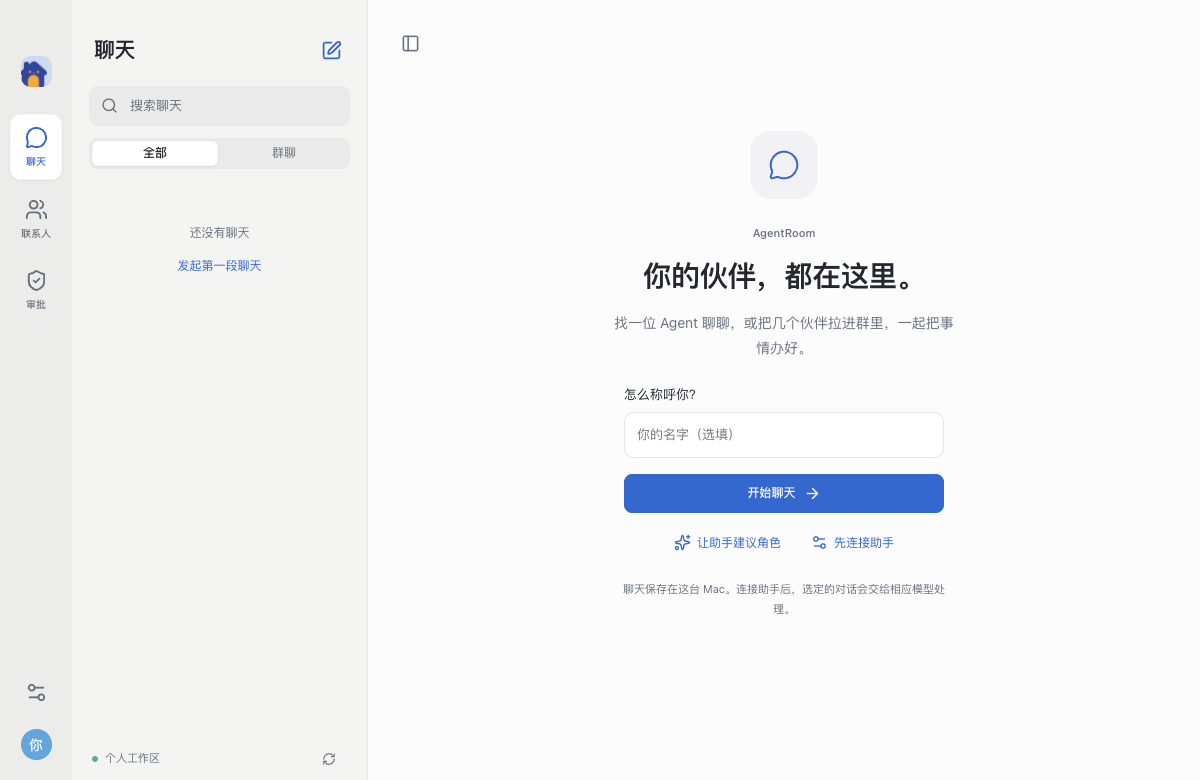
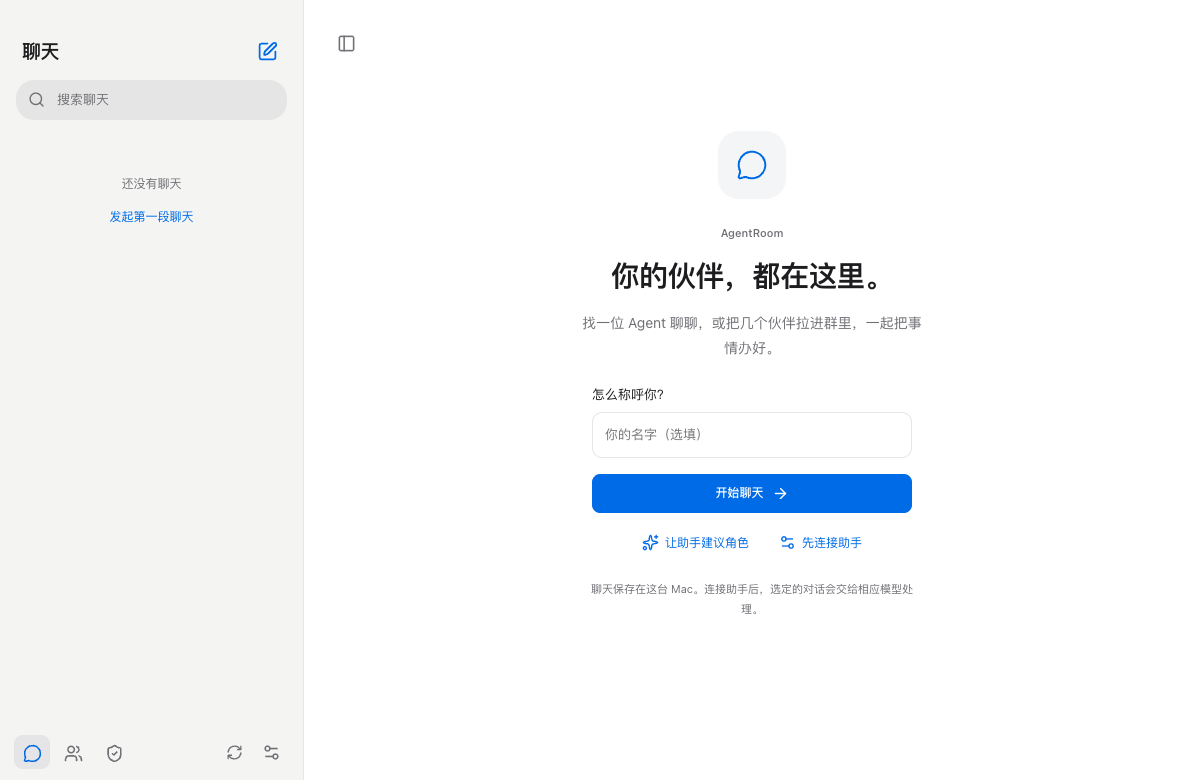
fix: isolate native test environments and keep test mode visible

diff --git a/apps/desktop/test/workspace-profile.test.ts b/apps/desktop/test/workspace-profile.test.ts
@@ -1,4 +1,5 @@
 import { describe, it, expect } from 'vitest';
+import { cleanDesktopTestEnv } from '../../../dev/desktop-test-env.mjs';
 import { resolveWorkspaceProfile, testWorkspaceArgs } from '../src/main/workspace-profile';
 describe('workspace profiles', () => {
  it('preserves existing normal profile and explicit personal override', () => {
@@ -10,6 +11,10 @@ describe('workspace profiles', () => {
   const p=resolveWorkspaceProfile('/support',{AGENTSTUDIO_PERSONAL_DATA_DIR:'/real'},['--agentroom-test-profile=fixture-123']);
   expect(p.testMode).toBe(true);expect(p.userData).toBe('/support/AgentStudio/agentroom-test-profiles/fixture-123');
   expect(p.personalData).toBe(p.userData+'/personal');
+ });
+ it('native acceptance clears inherited aliases before selecting its isolated profile', () => {
+  const env=cleanDesktopTestEnv({AGENTSTUDIO_USER_DATA_DIR:'/tmp/acceptance/profile',AGENTROOM_USER_DATA_DIR:'/pretend-real-profile',AGENTROOM_PERSONAL_DATA_DIR:'/pretend-real-personal',AGENTSTUDIO_PERSONAL_DATA_DIR:'/old-real-personal',AGENTROOM_TEST_MODE:'1'});
+  expect(resolveWorkspaceProfile('/support',env,[])).toMatchObject({testMode:false,userData:'/tmp/acceptance/profile',personalData:'/tmp/acceptance/profile/personal'});
  });
  it('normal mode overrides an inherited test environment', () => {
   expect(resolveWorkspaceProfile('/support',{AGENTROOM_TEST_MODE:'1'},['--agentroom-normal-mode']).testMode).toBe(false);

diff --git a/apps/personal/src/Messenger.tsx b/apps/personal/src/Messenger.tsx
@@ -272,6 +272,7 @@ function Messenger() {
   const mentionCandidates = thread?.kind === "group" && mentionMatch ? contacts.filter(c => c.kind === "agent" && thread.memberIds?.includes(c.id) && c.handle.startsWith((mentionMatch[1] || "").toLowerCase())) : [];
 
   return <div className={`im-app ${desktop ? "im-native" : ""} ${mobileDetail ? "im-show-detail" : ""} ${listHidden ? "im-focused" : ""}`} data-testid="im-app">
+    <span className="workspace-mode-indicator" data-testid="workspace-mode" data-test-mode={desktop?.testMode || false} hidden={!desktop?.testMode} role="status">测试模式 · 独立资料</span>
     <a className="skip-link" data-testid="im-skip" href="#im-main">跳到聊天内容</a>
 
     <aside className="im-list-panel" id="im-list" data-testid="im-list-panel" aria-label={screen === "chats" ? "会话列表" : screen === "contacts" ? "联系人列表" : "审批列表"}>

diff --git a/apps/personal/src/messenger.css b/apps/personal/src/messenger.css
@@ -521,3 +521,5 @@
 .workspace-quick { margin: 0 auto 22px; color: var(--im-muted); font-size: 11px; }
 .workspace-quick > div { display: flex; flex-wrap: wrap; justify-content: center; gap: 12px; margin-top: 10px; }
 .workspace-quick button { display: flex; align-items: center; gap: 6px; font-size: 12px; color: var(--im-ink); }
+.workspace-mode-indicator { position: fixed; z-index: 20; top: 9px; right: 18px; padding: 3px 10px; border: 1px solid var(--im-line); border-radius: 7px; background: var(--im-paper); color: var(--im-blue); font-size: 11px; font-weight: 600; pointer-events: none; }
+.workspace-mode-indicator[hidden] { display: none; }

diff --git a/apps/desktop/e2e-smoke/smoke.spec.ts b/apps/desktop/e2e-smoke/smoke.spec.ts
@@ -20,7 +20,7 @@ let page: Page;
 async function launch(): Promise<void> {
   const env: Record<string, string> = {};
   for (const [k, v] of Object.entries(process.env)) if (v !== undefined) env[k] = v;
-  delete env.ELECTRON_RUN_AS_NODE;
+  for (const key of ["ELECTRON_RUN_AS_NODE", "AGENTROOM_USER_DATA_DIR", "AGENTROOM_PERSONAL_DATA_DIR", "AGENTSTUDIO_PERSONAL_DATA_DIR", "AGENTROOM_TEST_MODE"]) delete env[key];
   app = await electron.launch({
     args: [APP_DIR],
     env: { ...env, AGENTSTUDIO_WORKSPACE: "matrix", AGENTSTUDIO_USER_DATA_DIR: profileDir, AGENTSTUDIO_SERVER_URL: SERVER, AGENTSTUDIO_MOCK_KEYCHAIN: "1" },

diff --git a/apps/desktop/src/main/index.ts b/apps/desktop/src/main/index.ts
@@ -168,6 +168,7 @@ function createWindow() {
     },
   });
   mainWindow = win;
+  if (workspaceProfile.testMode) win.on("page-title-updated", event => { event.preventDefault(); win.setTitle("AgentRoom · 测试模式"); });
 
   windowShown = false;
   win.once("ready-to-show", () => {
